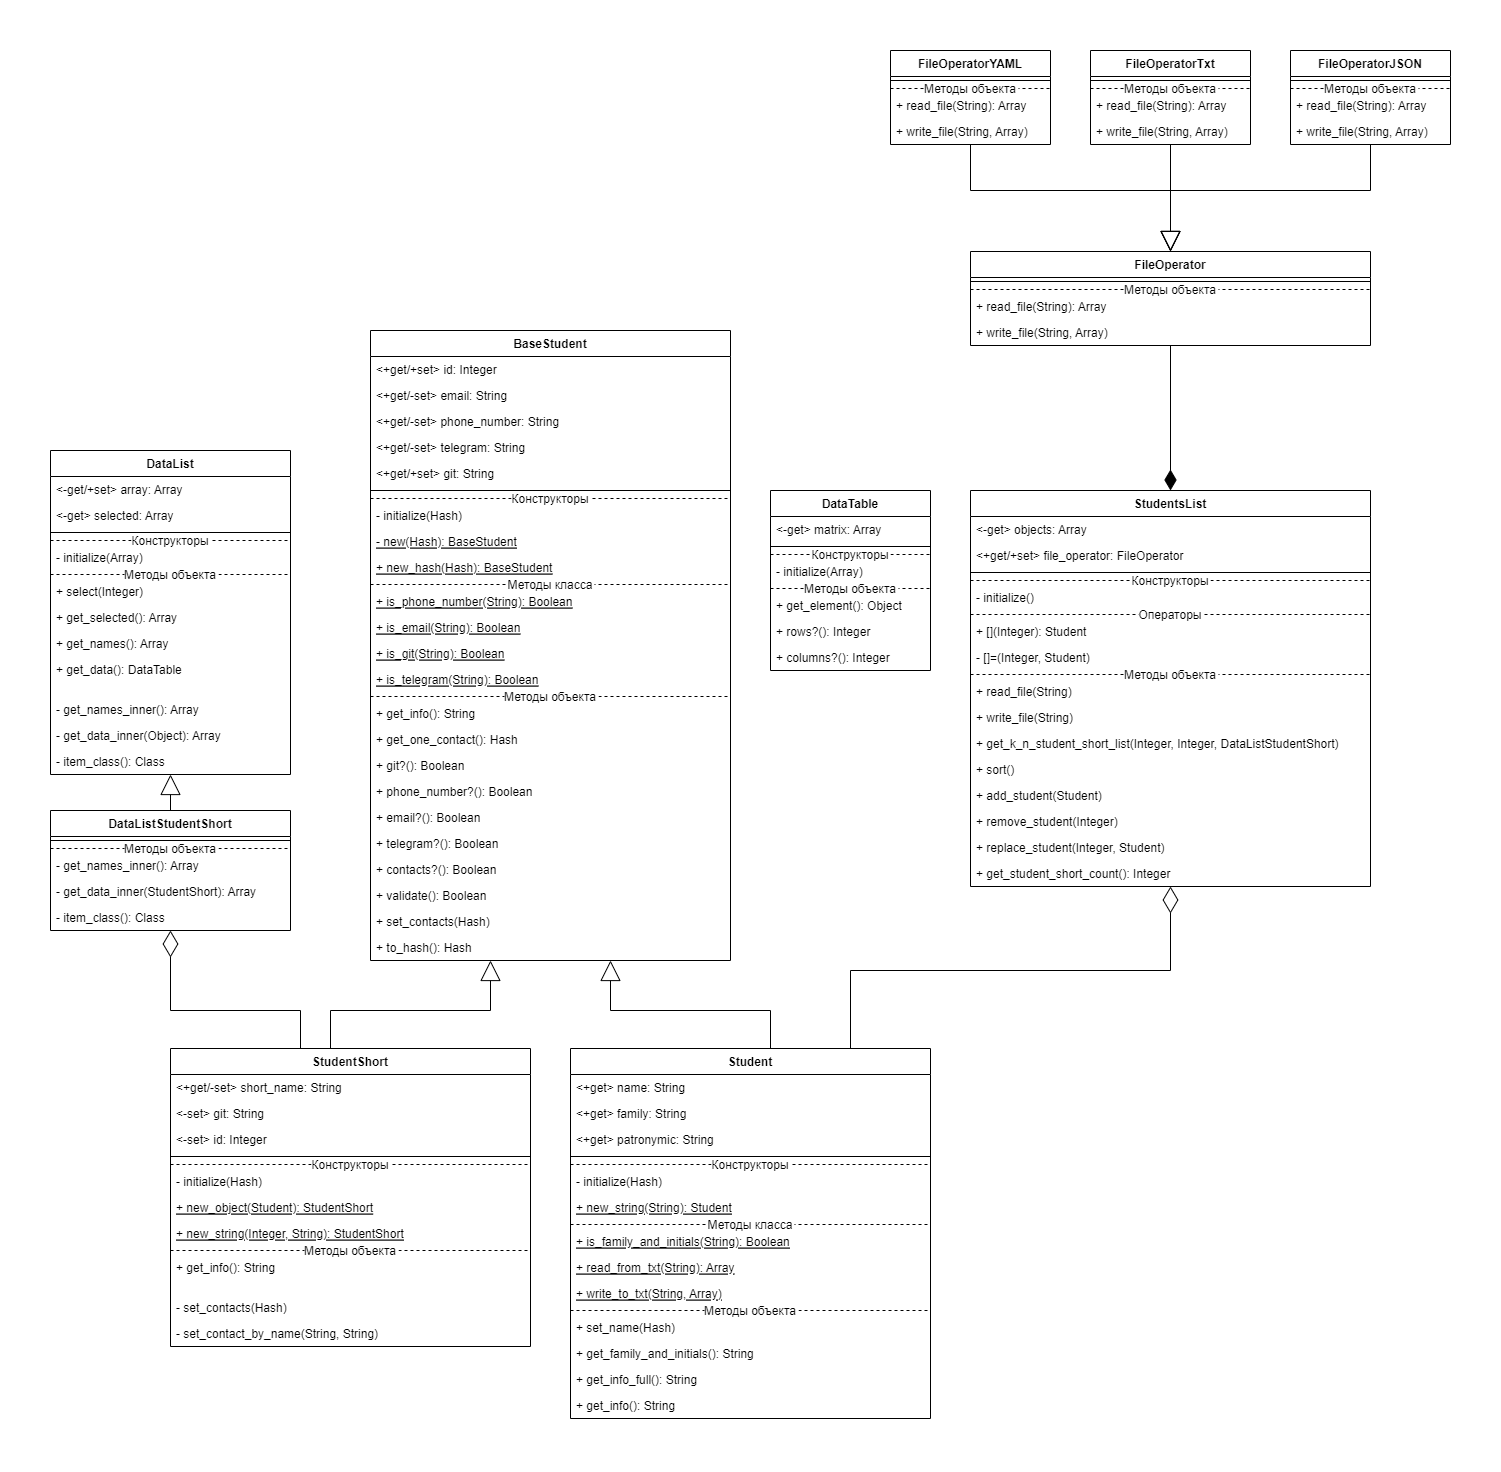
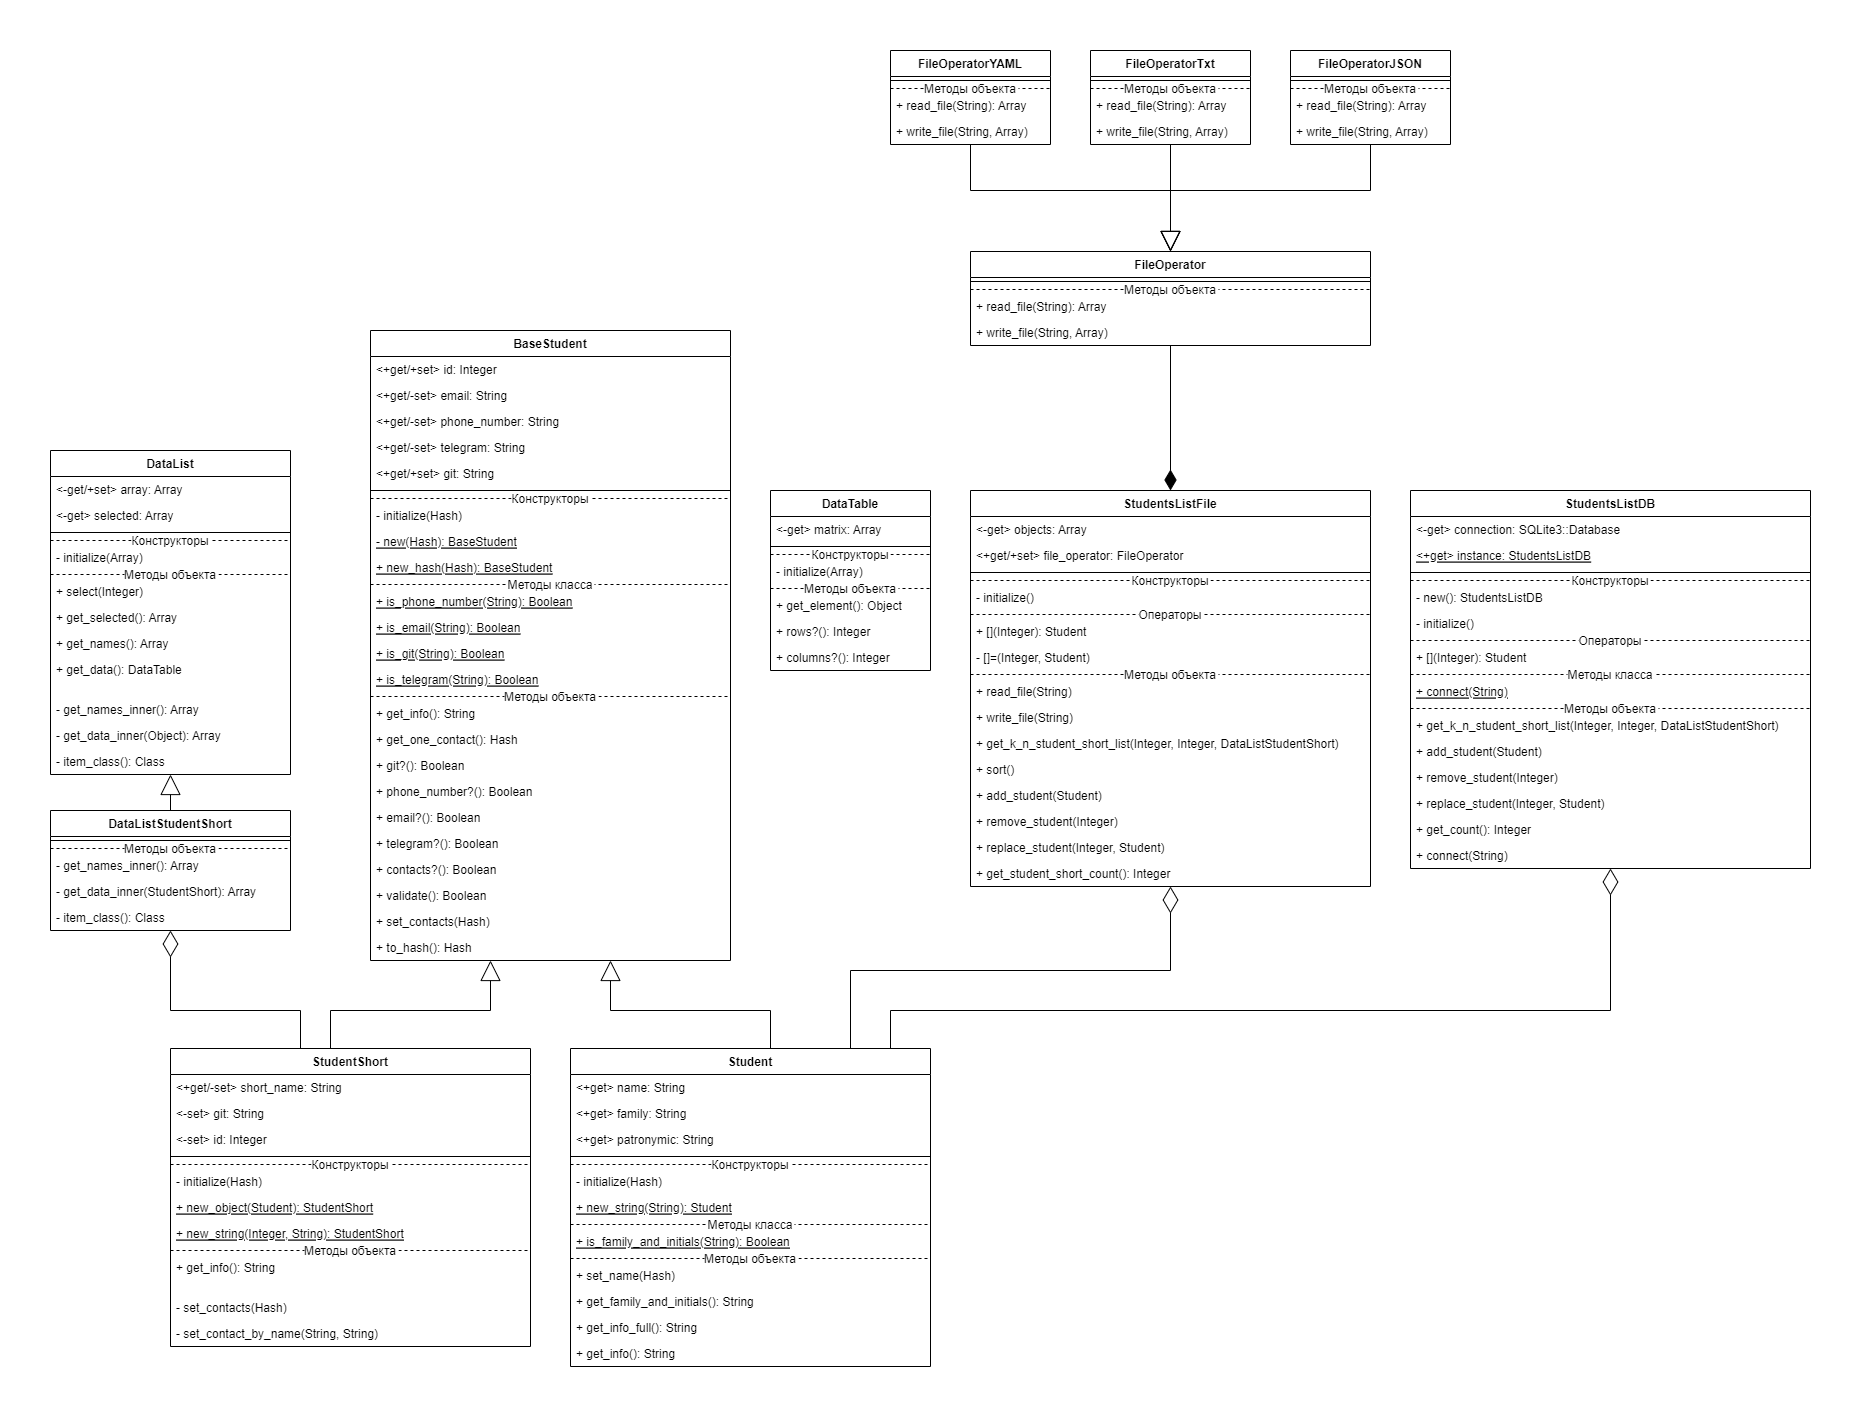
Лаб.3 Здч.1-8 Реализован класс StudentsListDB
"StudentsListDB" сразу реализован одиночкой, ибо мне лень делать вид, что я не знаю, что в дальнейшем его необходимо будет сделать одиночкой.
Предыдущий "StudentsList" переименован в "StudentsListFile".
"Student" теперь принимает ФИО на русском.
"StudentShort" теперь допускает отсутствие любых контактов (на всякий случай), а его метод "set_contact_by_name" очищает неиспользуемые контакты.
В БД в таблице "Student" переименованы столбцы, теперь они идентичны полям класса "Student". Внесены соответствующие изменения в дефолтные скрипты.
Обновлена диаграмма классов.

diff --git a/StudentProject/collections/students_list_db.rb b/StudentProject/collections/students_list_db.rb
@@ -1,0 +1,81 @@
+require_relative "../student/student.rb"
+require_relative "../student/student_short.rb"
+require_relative "data_list_student_short.rb"
+require "sqlite3"
+
+class StudentsListDB
+	### STATIC DEFINITIONS
+	#@instance = nil
+
+	### GENERATED
+	private attr_reader :connection
+	
+	### INITIALIZE
+	private
+	
+	def initialize()
+		#@connection = nil
+	end
+	
+	### CONSTRUCTOR METHODS
+	private_class_method :new
+
+	### PUBLIC OBJECT METHODS
+	public
+	
+	def [](id)
+		return Student.new_hash(self.connection.query("SELECT * FROM Student WHERE ID=#{id}").next.transform_keys(&:to_sym))
+	end
+	
+	def get_k_n_student_short_list(k, n, input = nil)
+		result = self.connection.query("SELECT * FROM Student LIMIT #{k*n},#{n}")
+		output = []
+		result.each { |row|
+			#puts row
+			output.push(StudentShort.new_object(Student.new_hash(row.transform_keys(&:to_sym))))
+		}
+		if input == nil
+			return DataListStudentShort.new(output)
+		else
+			input.array = output
+		end
+	end
+	
+	def add_student(object)
+		self.connection.execute("INSERT INTO Student (name, family, patronymic, git, phone_number, telegram, email)
+		VALUES ('#{object.name}', '#{object.family}', '#{object.patronymic}', '#{object.git}', '#{object.phone_number}', '#{object.telegram}', '#{object.email}')")
+	end
+	
+	def remove_student(id)
+		self.connection.execute("DELETE FROM Student WHERE id=#{id}")
+	end
+	
+	def replace_student(id, object)
+		self.connection.execute("UPDATE Student SET name='#{object.name}', family='#{object.family}', patronymic='#{object.patronymic}',
+			git='#{object.git}', phone_number='#{object.phone_number}', telegram='#{object.telegram}', email='#{object.email}'
+			WHERE id=#{id}")
+	end
+	
+	def get_count()
+		return self.connection.query("SELECT COUNT(*) FROM Student").next["COUNT(*)"]
+	end
+
+	def connect(database)
+		@connection = SQLite3::Database.open(database)
+		@connection.results_as_hash = true
+	end
+
+	### PUBLIC CLASS METHODS
+	public
+
+	def self.instance
+		if @instance == nil
+			@instance = new()
+		end
+		return @instance
+	end
+
+	def self.connect(database)
+		self.instance.connect(database)
+	end
+end

diff --git a/StudentProject/main.rb b/StudentProject/main.rb
@@ -3,26 +3,37 @@ require_relative "student/student_short.rb"
 require_relative "collections/data_table.rb"
 require_relative "collections/data_list.rb"
 require_relative "collections/data_list_student_short.rb"
-require_relative "collections/students_list.rb"
+require_relative "collections/students_list_file.rb"
+require_relative "collections/students_list_db.rb"
 require_relative "file operator/file_operator_txt.rb"
 require_relative "file operator/file_operator_json.rb"
 require_relative "file operator/file_operator_yaml.rb"
 require "sqlite3"
 #require "yaml"
 
-db = SQLite3::Database.open 'database/students.db'
-db.results_as_hash = true
+StudentsListDB.connect("database/students.db")
+#dlss = StudentsListDB.instance.get_k_n_student_short_list(0,5)
+#dt = dlss.get_data()
+#puts dt.get_element(1, 3)
+
+puts StudentsListDB.instance[3].get_info()
+
+#db = SQLite3::Database.open 'database/students.db'
+#db.results_as_hash = true
 #db.execute File.read("database/scripts/structure.sql")
 #db.execute File.read("database/scripts/data.sql")
 
-result = db.query "SELECT * FROM Student"
-result.each { |row| puts row }
+#result = db.query "SELECT * FROM Student"
+#result.each { |row| puts row }
 
 #object1 = Student.new_hash({id:0, name:"Arbux", family:"Alebarod", patronymic:"Achekavich", phone_number:"+79189356731", email:"address@mail.sd", telegram:"@ahto_ahaha", git:"https://github.com/CyBeR_uSeR"})
 #object2 = Student.new(hash:{id:1, name:"Ti", family: "Prikki", patronymic:"Noitaich", email:"my_bestEmail3@cybermail.gog", git:"gitlab.com/stellAr"})
 #object3 = Student.new(hash:{id:"2", name:"lARrius", family:"VarrO", patronymic:"sToRyViCh", phone_number:79336421496, telegram:"BloodBath"})
 #object4 = Student.new_string("3;NAME;FAMILIAR;PAPAPAPA;89882883838;;;")
 #object5 = Student.new()
+
+#StudentsListDB.instance.remove_student(11)
+#puts StudentsListDB.instance.count
 
 #object_short1 = StudentShort.new_string(5, "Bafyly B.T.;github.com/JJJ_rare;telegram:tigra")
 #object_short2 = StudentShort.new_object(object1)

diff --git a/StudentProject/student/student_short.rb b/StudentProject/student/student_short.rb
@@ -23,6 +23,7 @@ class StudentShort < BaseStudent
 	
 	def self.new_object(object)
 		contact = object.get_one_contact()
+		if contact == nil then contact = {type:nil, contact:nil} end
 		return new({id:object.id, short_name:(object.get_family_and_initials()), git:object.git, contact_type:contact[:type], contact:contact[:contact]})
 	end
 	def self.new_string(new_id, string)
@@ -39,7 +40,9 @@ class StudentShort < BaseStudent
 		info += ";#{self.short_name};"
 		info += "#{self.git};"
 		contact = get_one_contact()
-		info += "#{contact[:type]}:#{contact[:contact]}"
+		if contact != nil
+			info += "#{contact[:type]}:#{contact[:contact]}"
+		end
 		return info
 	end
 	
@@ -55,11 +58,11 @@ class StudentShort < BaseStudent
 	def set_contact_by_name(name, contact)
 		case name
 			when "phone_number"
-				set_contacts(phone_number:contact)
+				set_contacts(phone_number:contact, telegram:"", email:"")
 			when "telegram"
-				set_contacts(telegram:contact)
+				set_contacts(telegram:contact, phone_number:"", email:"")
 			when "email"
-				set_contacts(email:contact)
+				set_contacts(email:contact, phone_number:"", telegram:"")
 		end
 	end
 end

diff --git a/StudentProject/student/student.rb b/StudentProject/student/student.rb
@@ -32,21 +32,21 @@ class Student < BaseStudent
 	
 	def set_name(hash)
 		if hash[:name] != nil #if we not input name, not change this
-			if hash[:name].match(/^[a-zA-Z]+$/)
+			if hash[:name].match(/^[a-zA-Zа-яА-Я]+$/)
 				@name = hash[:name].capitalize
 			else
 				raise ArgumentError.new "Wrong name."
 			end
 		end
 		if hash[:family] != nil #if we not input family, not change this
-			if hash[:family].match(/^[a-zA-Z]+$/)
+			if hash[:family].match(/^[a-zA-Zа-яА-Я]+$/)
 				@family = hash[:family].capitalize
 			else
 				raise ArgumentError.new "Wrong family."
 			end
 		end
 		if hash[:patronymic] != nil #if we not input patronymic, not change this
-			if hash[:patronymic].match(/^[a-zA-Z]+$/)
+			if hash[:patronymic].match(/^[a-zA-Zа-яА-Я]+$/)
 				@patronymic = hash[:patronymic].capitalize
 			else
 				raise ArgumentError.new "Wrong patronymic."
@@ -78,7 +78,7 @@ class Student < BaseStudent
 	public
 	
 	def self.is_family_and_initials(string)
-		return string.match(/^[a-zA-Z]+ [a-zA-Z].[a-zA-Z].$/)
+		return string.match(/^[a-zA-Zа-яА-Я]+ [a-zA-Zа-яА-Я].[a-zA-Zа-яА-Я].$/)
 	end
 	
 end

diff --git a/StudentProject/collections/students_list_file.rb b/StudentProject/collections/students_list_file.rb
@@ -2,7 +2,7 @@ require_relative "../student/student.rb"
 require_relative "../student/student_short.rb"
 require_relative "data_list_student_short.rb"
 
-class StudentsList
+class StudentsListFile
 	### GENERATED
 	private attr_reader :objects
 	public attr_reader :file_operator
@@ -10,9 +10,8 @@ class StudentsList
 	### INITIALIZE
 	private
 	
-	def initialize(file_operator)
+	def initialize()
 		@objects = []
-		self.file_operator = file_operator
 	end
 	
 	### PUBLIC OBJECT METHODS
